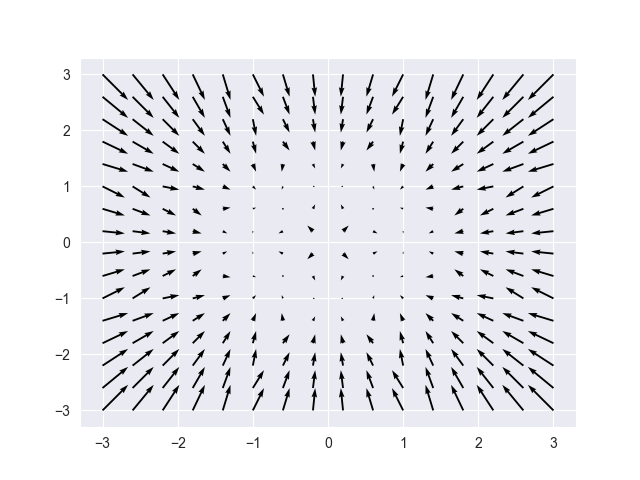
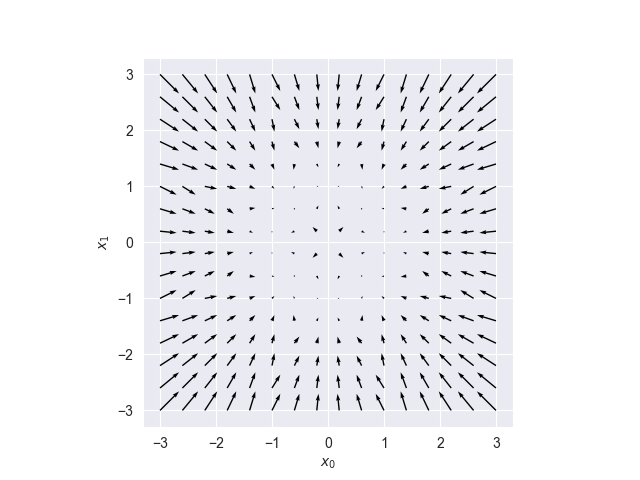
minor adjustments to plotting

diff --git a/examples/example.py b/examples/example.py
@@ -7,11 +7,12 @@ from jax import jit, vmap, grad
 import jax.random as random
 import jax.numpy as jnp
 from jax.scipy.special import logsumexp
+from flax import serialization
 import matplotlib.pyplot as plt
 from diffusionjax.plot import (
     plot_samples, plot_score, plot_score_ax, plot_heatmap, plot_animation)
 from diffusionjax.losses import get_loss
-from diffusionjax.solvers import EulerMaruyama
+from diffusionjax.solvers import EulerMaruyama, Annealed
 from diffusionjax.samplers import get_sampler
 from diffusionjax.inverse_problems import get_inpainter
 from diffusionjax.models import MLP
@@ -20,7 +21,7 @@ from diffusionjax.utils import (
     update_step,
     optimizer,
     retrain_nn)
-from diffusionjax.sde import OU
+from diffusionjax.sde import OU, UDLangevin
 
 
 def sample_circle(num_samples):
@@ -95,22 +96,32 @@ def main():
     params = score_model.init(step_rng, jnp.zeros((batch_size, N)), jnp.ones((batch_size,)))
     # Initialize optimizer
     opt_state = optimizer.init(params)
-    # Get loss function
-    solver = EulerMaruyama(sde)
-    loss = get_loss(
-        sde, solver, score_model, score_scaling=score_scaling, likelihood_weighting=False,
-        reduce_mean=True, pointwise_t=False)
-    # Train with score matching
-    score_model, params, opt_state, mean_losses = retrain_nn(
-        update_step=update_step,
-        num_epochs=num_epochs,
-        step_rng=step_rng,
-        samples=samples,
-        score_model=score_model,
-        params=params,
-        opt_state=opt_state,
-        loss=loss,
-        batch_size=batch_size)
+    if 0:  # Load pre-trained model parameters
+        f = open('/tmp/output0', 'rb')
+        output = f.read()
+        params = serialization.from_bytes(params, output)
+    else:
+        # Get loss function
+        solver = EulerMaruyama(sde)
+        loss = get_loss(
+            sde, solver, score_model, score_scaling=score_scaling, likelihood_weighting=False,
+            reduce_mean=True, pointwise_t=False)
+        # Train with score matching
+        score_model, params, opt_state, mean_losses = retrain_nn(
+            update_step=update_step,
+            num_epochs=num_epochs,
+            step_rng=step_rng,
+            samples=samples,
+            score_model=score_model,
+            params=params,
+            opt_state=opt_state,
+            loss=loss,
+            batch_size=batch_size)
+
+        # Save params
+        output = serialization.to_bytes(params)
+        f = open('/tmp/output0', 'wb')
+        f.write(output)
 
     # Get trained score
     trained_score = get_score(sde, score_model, params, score_scaling=score_scaling)
@@ -131,13 +142,16 @@ def main():
     plot_heatmap(samples=q_samples[:, [0, 1]], area_min=-3, area_max=3, fname="heatmap inpainted")
 
     frames = 100
-    fig, ax = plt.subplots()
+    fig, ax = plt.subplots(1, 1)
+    plt.gca().set_aspect('equal', adjustable='box')
     def animate(i, ax):
         ax.clear()
         plot_score_ax(
             ax, trained_score, t=1 - (i / frames), area_min=-3, area_max=3, fname="trained score")
+
     # Plot animation of the trained score over time
     plot_animation(fig, ax, animate, frames, "trained_score")
+    plt.close()
 
 if __name__ == "__main__":
     main()

diff --git a/diffusionjax/plot.py b/diffusionjax/plot.py
@@ -75,6 +75,7 @@ def plot_animation(fig, ax, animate, frames, fname, fps=20, bitrate=800, dpi=300
 
 
 def plot_score(score, t, area_min=-1, area_max=1, fname="plot_score"):
+    fig, ax = plt.subplots(1, 1)
     # this helper function is here so that we can jit it.
     # We can not jit the whole function since plt.quiver cannot
     # be jitted
@@ -87,8 +88,11 @@ def plot_score(score, t, area_min=-1, area_max=1, fname="plot_score"):
         scores = score(grid, t)
         return grid, scores
     grid, scores = helper(score, t, area_min, area_max)
-    plt.quiver(grid[:, 0], grid[:, 1], scores[:, 0], scores[:, 1])
-    plt.savefig(fname)
+    ax.quiver(grid[:, 0], grid[:, 1], scores[:, 0], scores[:, 1])
+    ax.set_xlabel(r"$x_0$")
+    ax.set_ylabel(r"$x_1$")
+    plt.gca().set_aspect('equal', adjustable='box')
+    fig.savefig(fname)
     plt.close()
 
 
@@ -106,4 +110,5 @@ def plot_score_ax(ax, score, t, area_min=-1, area_max=1, fname="plot_score"):
         return grid, scores
     grid, scores = helper(score, t, area_min, area_max)
     ax.quiver(grid[:, 0], grid[:, 1], scores[:, 0], scores[:, 3])
-
+    ax.set_xlabel(r"$x_0$")
+    ax.set_ylabel(r"$x_1$")

diff --git a/examples/example1.py b/examples/example1.py
@@ -179,7 +179,7 @@ def main():
     opt_state = optimizer.init(params)
 
     if 0:  # Load pre-trained model parameters
-        f = open('/tmp/output', 'rb')
+        f = open('/tmp/output1', 'rb')
         output = f.read()
         params = serialization.from_bytes(params, output)
     else:
@@ -203,7 +203,7 @@ def main():
 
         # Save params
         output = serialization.to_bytes(params)
-        f = open('/tmp/output', 'wb')
+        f = open('/tmp/output1', 'wb')
         f.write(output)
 
     # Get trained score

diff --git a/README.md b/README.md
@@ -21,7 +21,7 @@ Contents:
 - [Acknowledgements](#acknowledgements)
 
 ## Installation
-The package requires Python 3.8+. `pip install diffusionjax` or for developers,
+The package requires Python 3.8+. First, it is recommended to [create a new python virtual environment](https://conda.io/projects/conda/en/latest/user-guide/tasks/manage-environments.html#creating-an-environment-with-commands). Then, `pip install diffusionjax` or for developers,
 - Clone the repository `git clone git@github.com:bb515/diffusionjax.git`
 - Install using pip `pip install -e .` from the root directory of the repository (see the `setup.py` for the requirements that this command installs).
 
@@ -40,7 +40,7 @@ The package requires Python 3.8+. `pip install diffusionjax` or for developers,
 ```
 ![Prediction](readme_samples.png)
 ```python
-# Get sde model
+>>> # Get sde model
 >>> sde = OU()
 >>>
 >>> def log_hat_pt(x, t):
